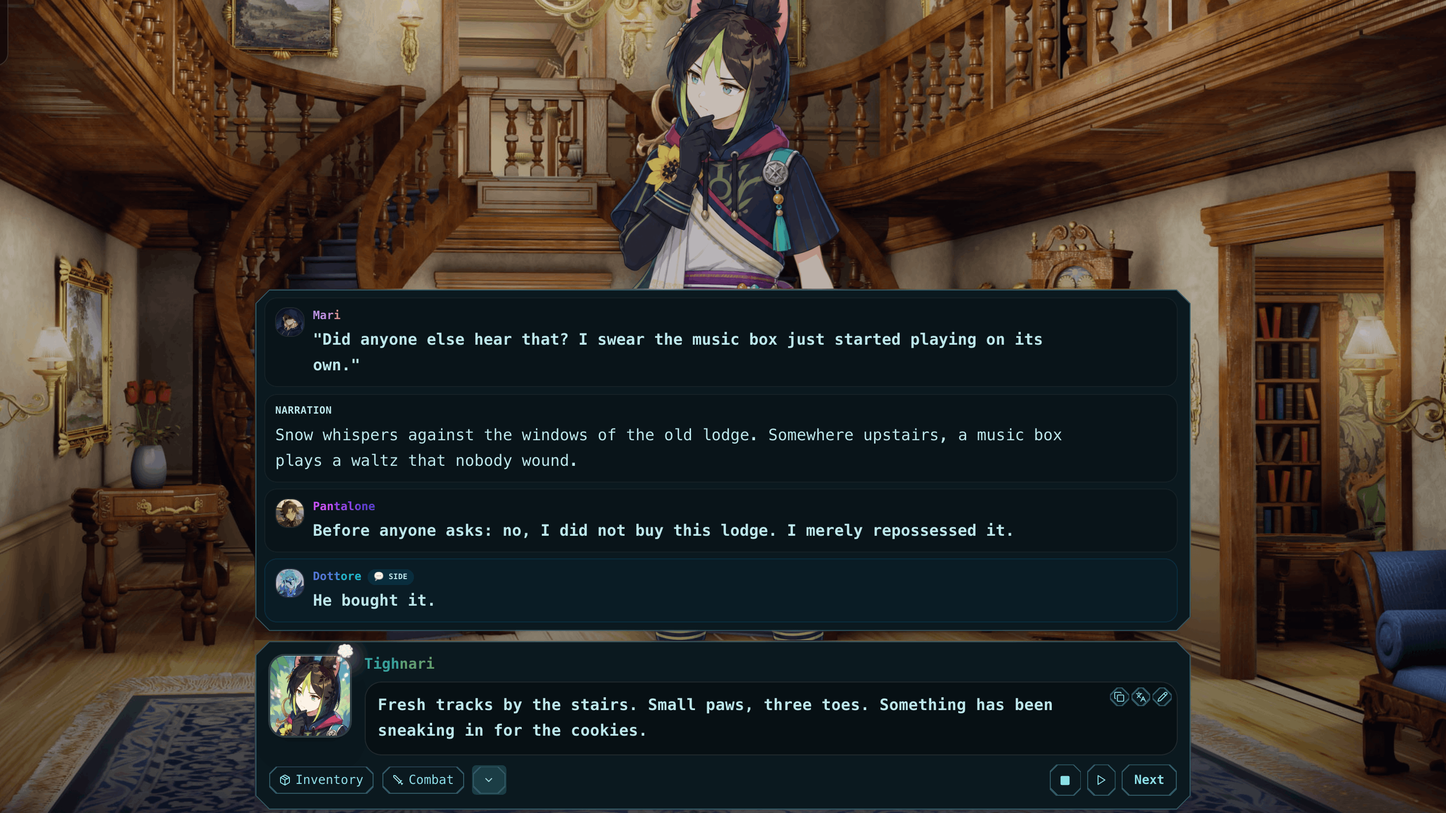
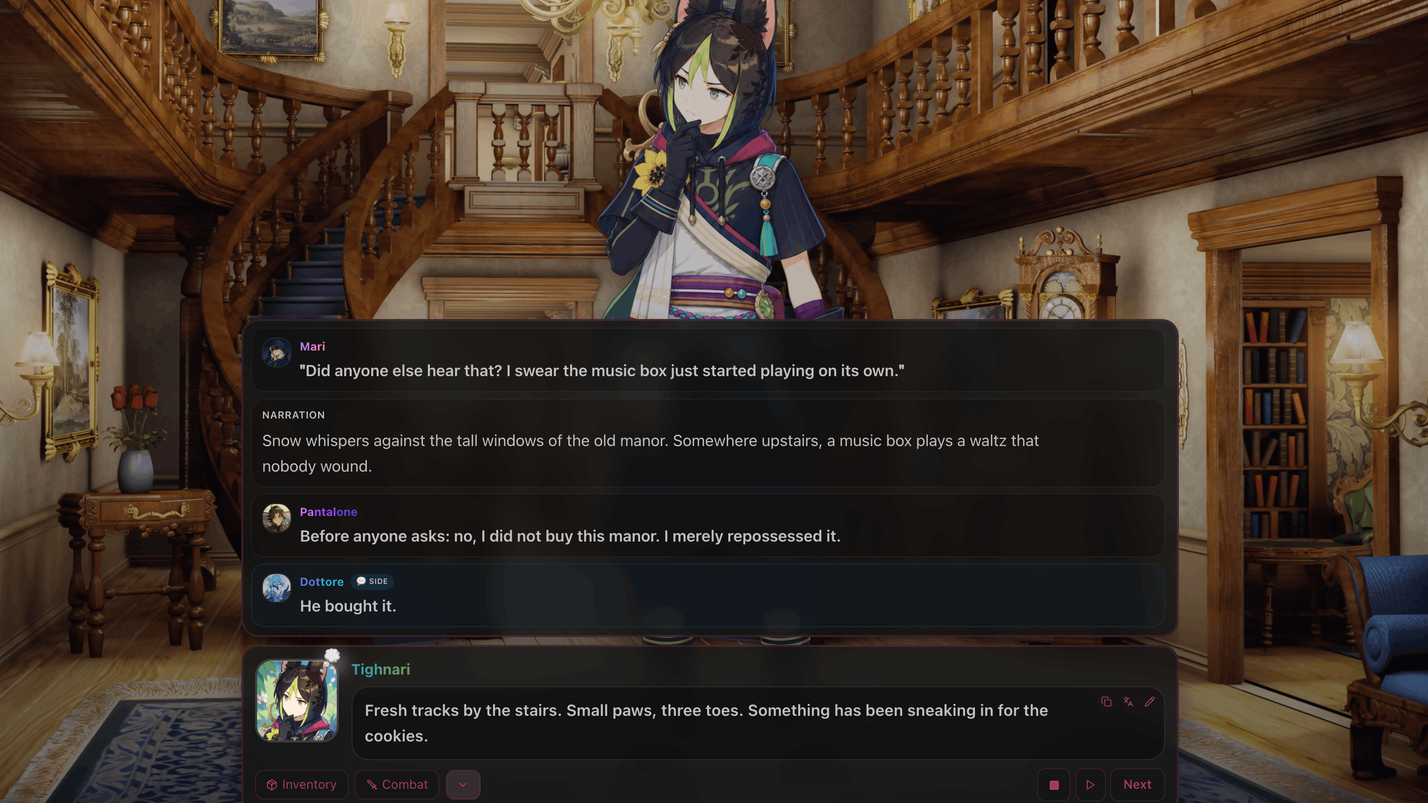
docs: README screenshots round 2 — tracker panel, Noodle, custom theme and default-style Game shots (#7110)
Remove the Card Browser screenshot, which loaded random public cards.
Retake the four Game Mode shots with the Default chat widget preset so the
README also shows the default look (Game widgets don't follow custom
styles yet, #7136). Add a filled Tracker Panel beside a Roleplay chat, a
Noodle timeline with hand-written posts, and a Persona 5-inspired custom
theme by Umi supplied by the maintainer, and tidy the section layout.

diff --git a/README.md b/README.md
@@ -49,6 +49,12 @@
 </p>
 
 <p align="center">
+  <img src="docs/screenshots/Desktop_Tracker_Panel.png" width="90%" alt="Tracker Panel beside a Roleplay chat" />
+  <br/>
+  <em>Tracker Panel — world state, the cast's moods and stats, quests, and your persona, docked beside the chat</em>
+</p>
+
+<p align="center">
   <img src="docs/screenshots/Desktop_Main_Menu.png" width="45%" alt="Home" />
   &nbsp;&nbsp;
   <img src="docs/screenshots/Desktop_Tutorial.png" width="45%" alt="Onboarding Tutorial" />
@@ -67,6 +73,12 @@
 </p>
 
 <p align="center">
+  <img src="docs/screenshots/Desktop_Noodle_Timeline.png" width="90%" alt="Noodle timeline" />
+  <br/>
+  <em>Noodle — a social feed where your characters post, reply, and share photos</em>
+</p>
+
+<p align="center">
   <img src="docs/screenshots/Desktop_Model_Picker.png" width="45%" alt="Model picker in the chat input" />
   &nbsp;&nbsp;
   <img src="docs/screenshots/Desktop_Chat_Settings_Window.png" width="45%" alt="Chat Settings window" />
@@ -76,15 +88,12 @@
 </p>
 
 <p align="center">
-  <img src="docs/screenshots/Desktop_Appearance.png" width="90%" alt="Appearance settings with chat widget styles" />
-  <br/>
-  <em>Make it yours — fonts, colors, and chat widget styles</em>
+  <img src="docs/screenshots/Desktop_Appearance.png" width="45%" alt="Appearance settings with chat widget styles" />
+  &nbsp;&nbsp;
+  <img src="docs/screenshots/Desktop_Custom_Theme.png" width="45%" alt="Persona 5-inspired custom theme" />
 </p>
-
 <p align="center">
-  <img src="docs/screenshots/Browser_Tab.png" width="90%" alt="Card Browser" />
-  <br/>
-  <em>Card Browser — Search and import character cards from Chub.ai, JannyAI, Pygmalion, Wyvern, and more</em>
+  <em>Make it yours — fonts, colors, and chat widget styles &nbsp;&nbsp;·&nbsp;&nbsp; Fully custom theming: a Persona 5-inspired look by Umi, made with custom CSS and pop-out Chat Settings windows</em>
 </p>
 
 <p align="center">
